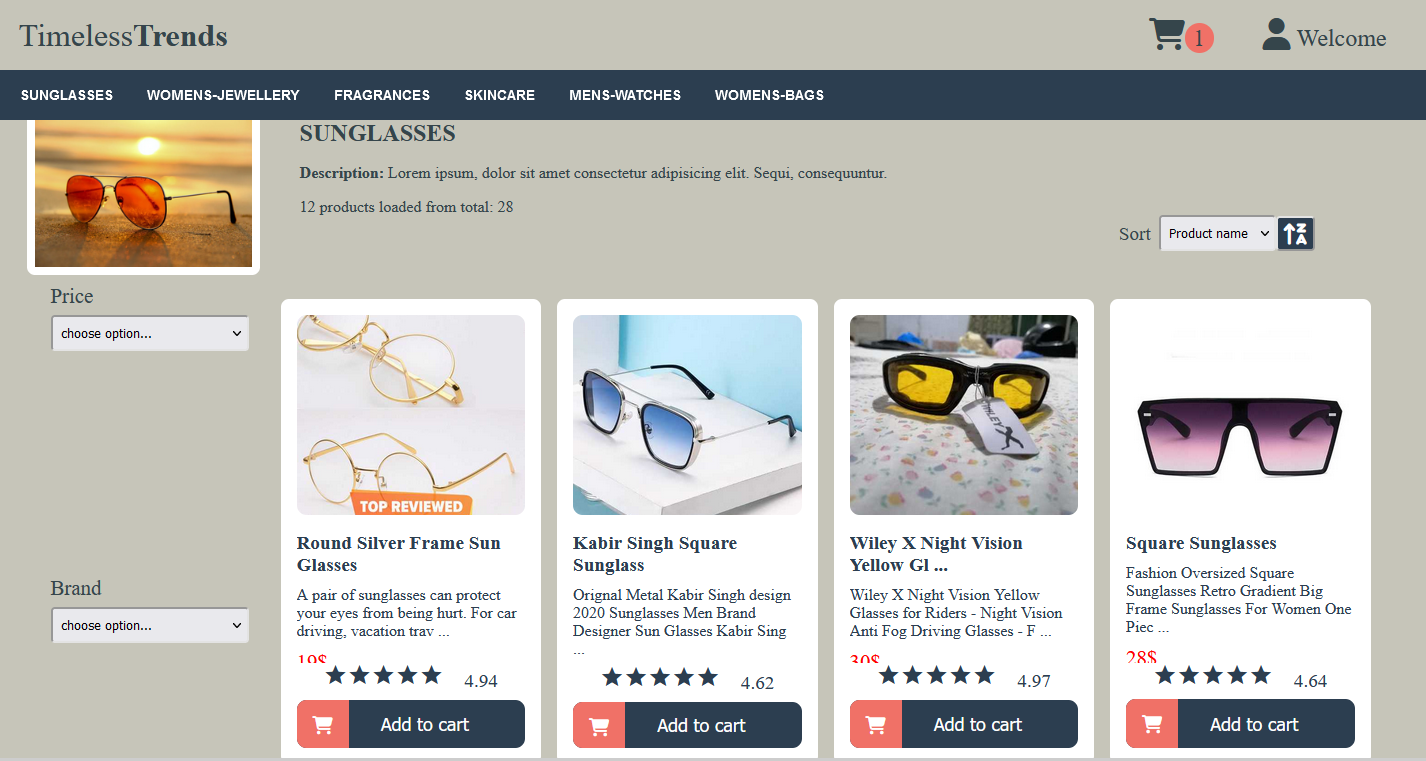
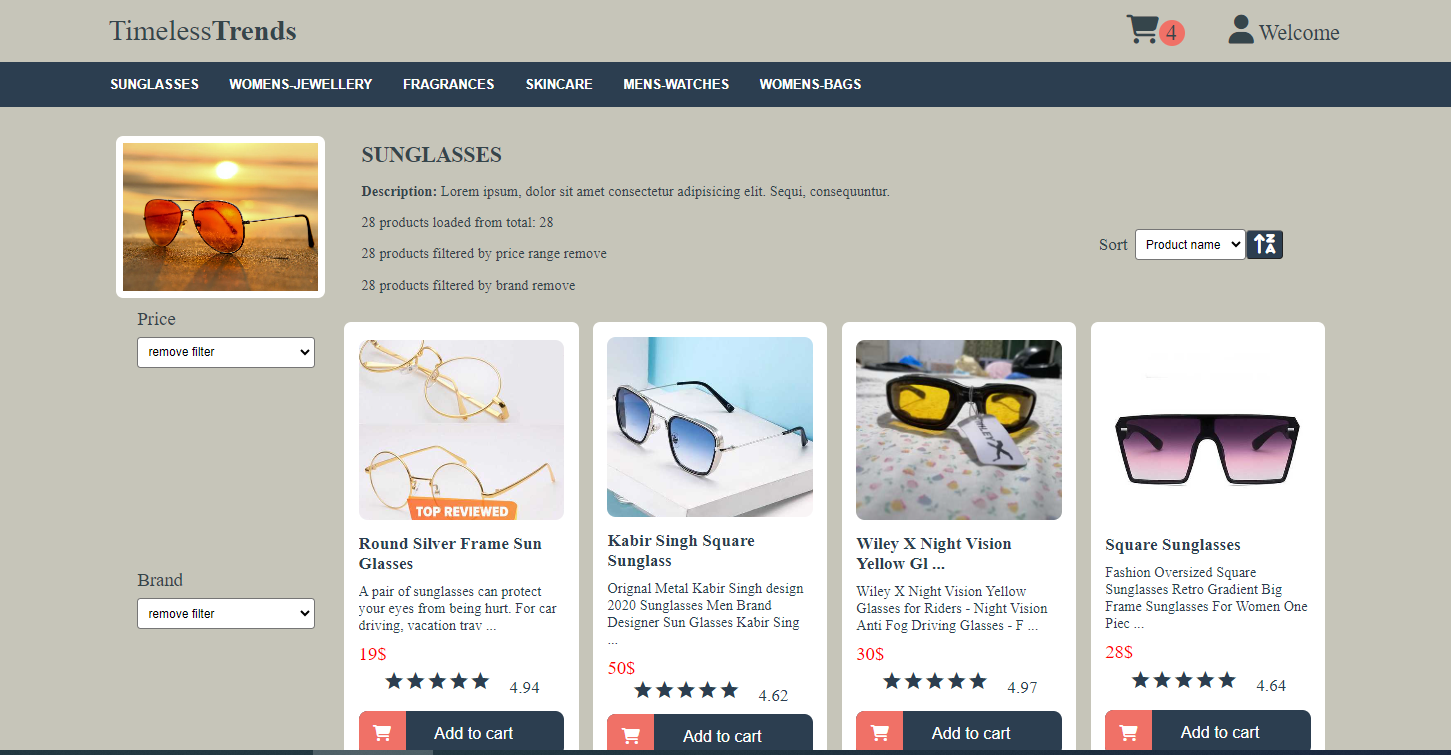
style changes

diff --git a/src/app/products/products-list/products-list.component.html b/src/app/products/products-list/products-list.component.html
@@ -17,7 +17,7 @@
                     consequuntur.</p>
                     <div class="product-list-header-loaded-products">
                         <p *ngIf="!noProductsInTheList">{{numLoadedProducs}} products loaded from total: {{products.length}}</p>
-                        <p *ngIf="filterByPrice!=='choose'">{{(productsToLoad |filterByPrice:[filterByPrice])?.length}} products filtered by price range {{filterByPrice}}</p>
+                        <p *ngIf="filterByPrice!=='choose'">{{(productsToLoad |filterByPrice:[filterByPrice])?.length}} products filtered by price range {{filterByPrice}}$</p>
                         <p *ngIf="filterByBrand!=='choose'">{{(productsToLoad |filterByBrand:[filterByBrand])?.length}} products filtered by brand {{filterByBrand}}</p>
                     </div>
 
